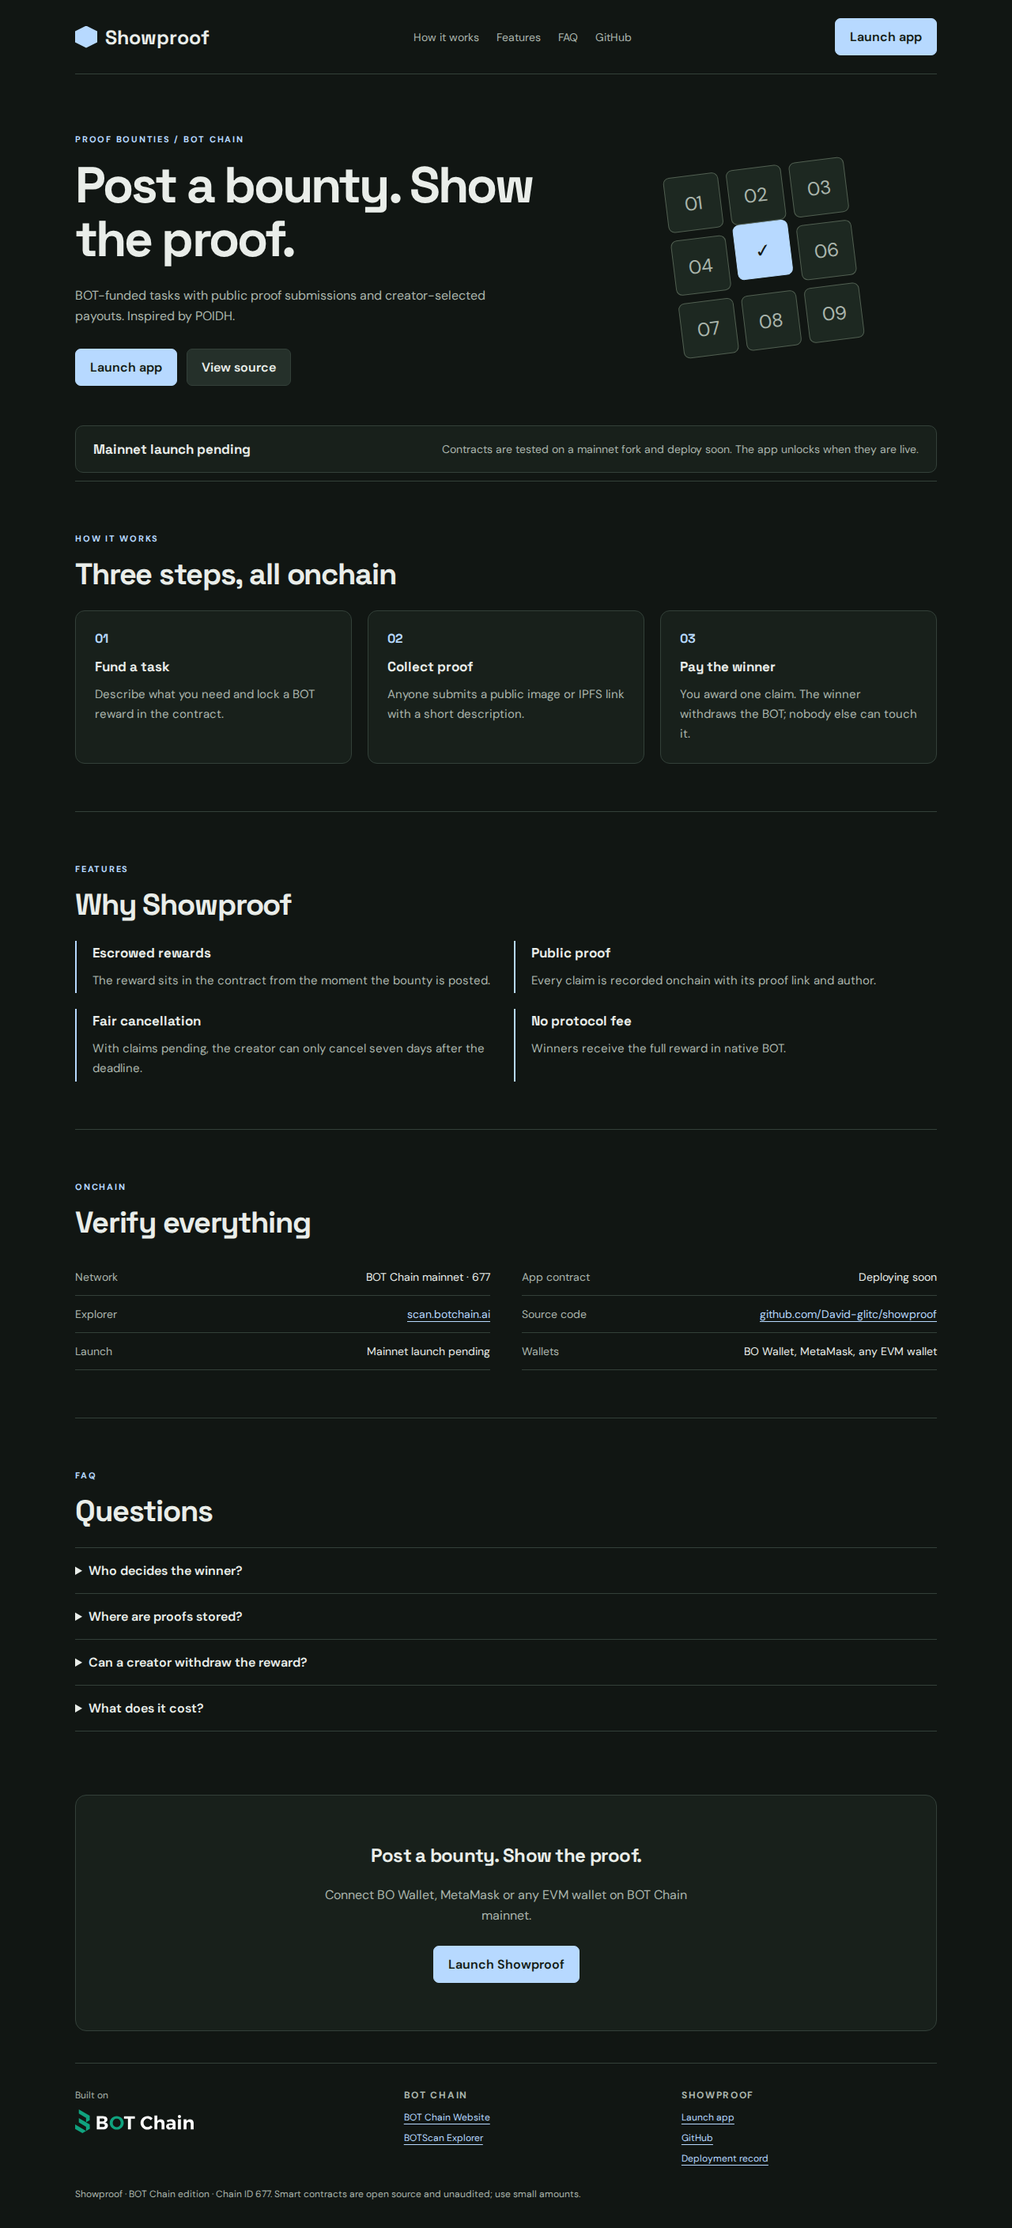
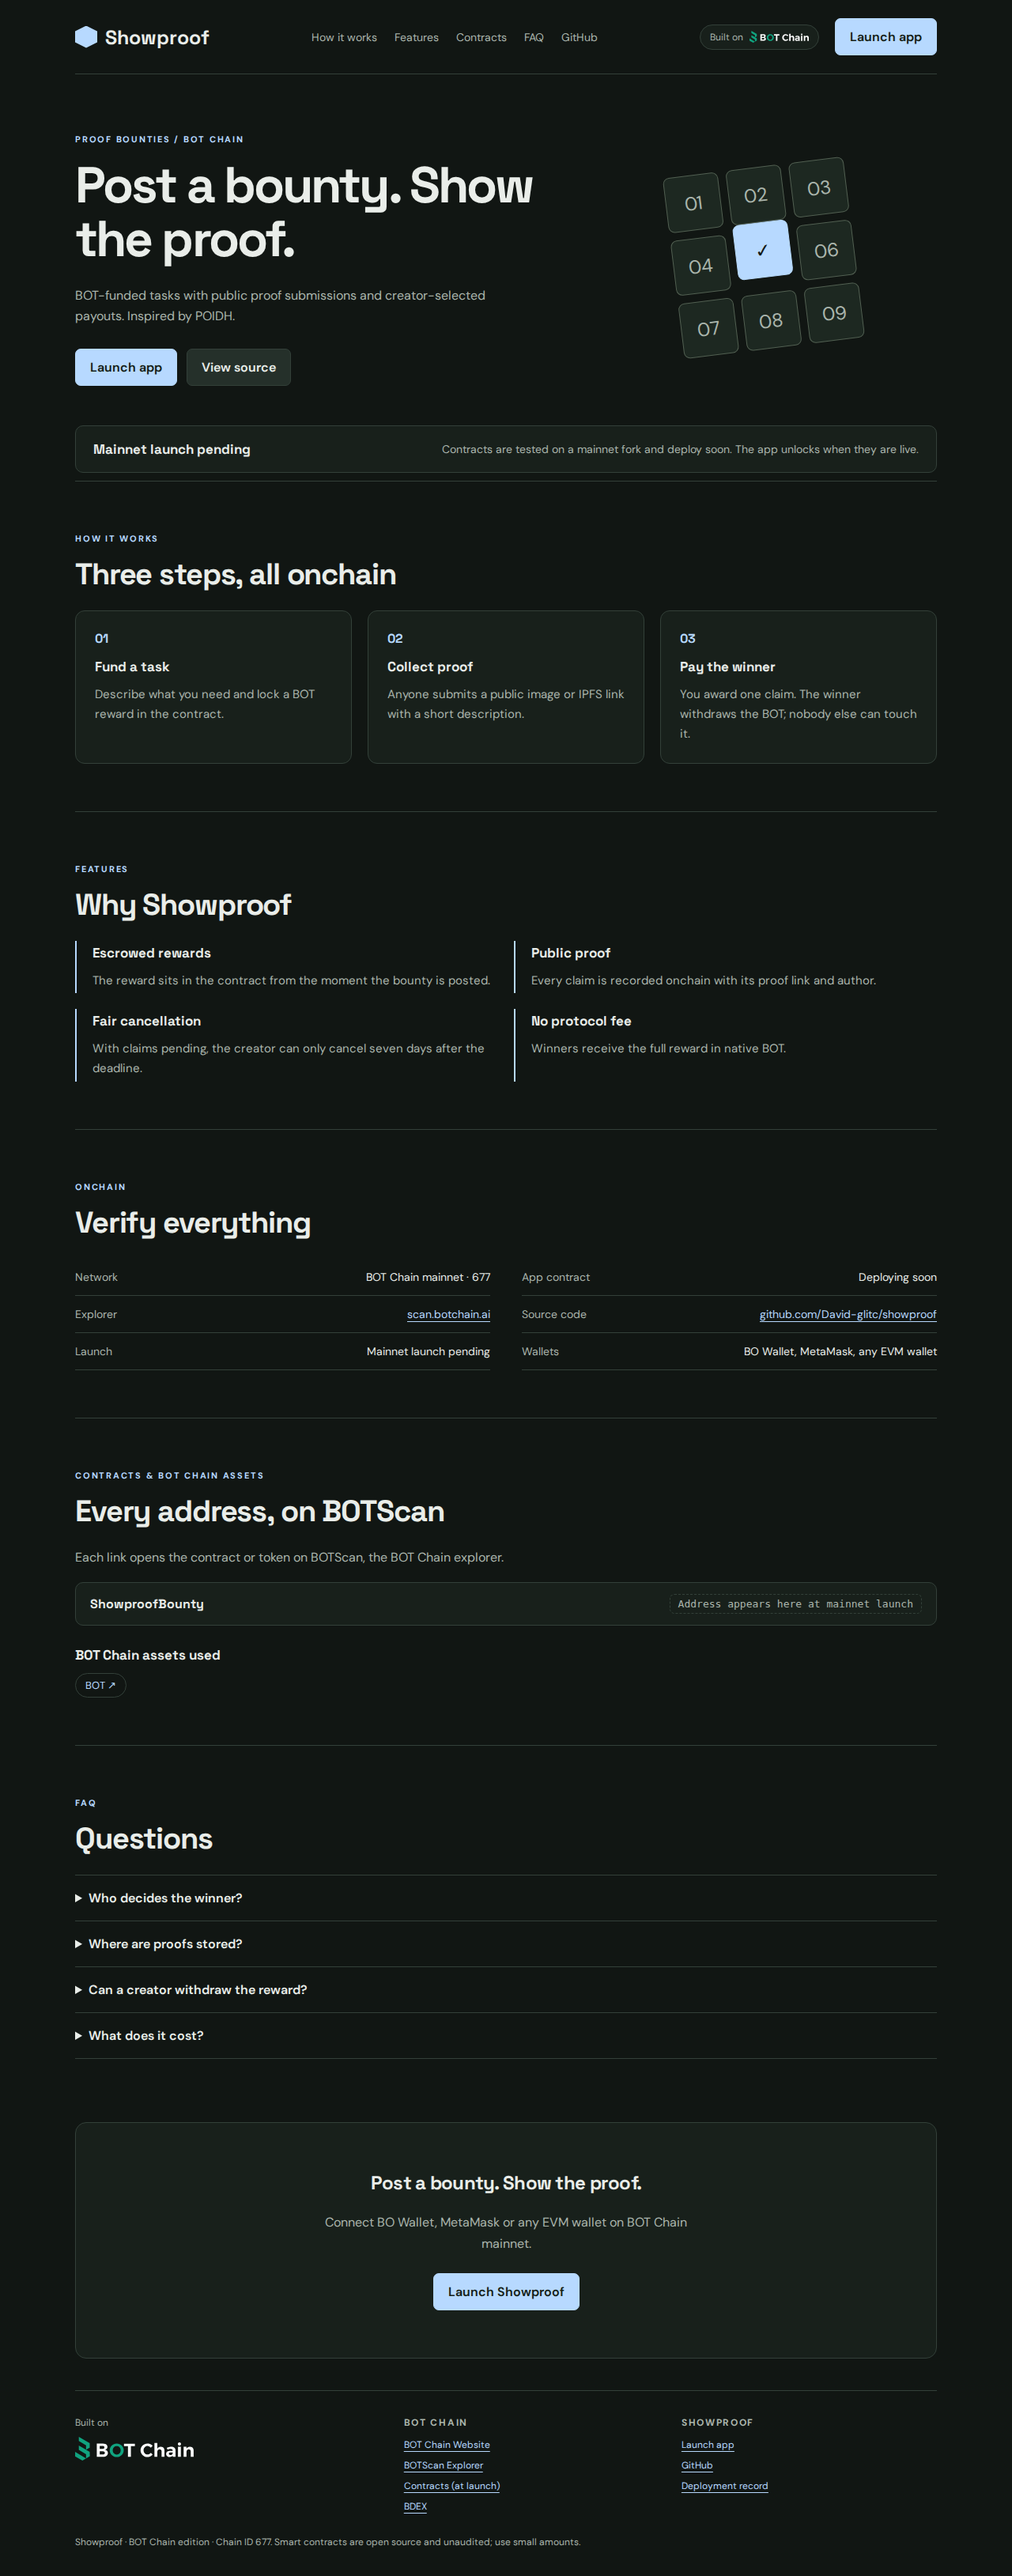
Move sites to Vercel; BOT Chain branding and linked contracts

diff --git a/web/landing.html b/web/landing.html
@@ -1,1 +1,1 @@
-<!doctype html><html lang="en"><head><meta charset="UTF-8"><meta name="viewport" content="width=device-width,initial-scale=1"><meta name="theme-color" content="#111613"><title>__NAME__ · BOT Chain</title><meta name="description" content="__DESCRIPTION__"><meta property="og:title" content="__NAME__ · BOT Chain"><meta property="og:description" content="__DESCRIPTION__"><meta property="og:type" content="website"><meta name="twitter:card" content="summary"><link rel="icon" href="/icon.svg" type="image/svg+xml"><link rel="stylesheet" href="/style.css"></head><body><a class="skip" href="#main">Skip to content</a><div class="shell"><header><a class="brand" href="/"><span class="mark" aria-hidden="true"></span>__NAME__</a><nav class="site-nav" aria-label="Page"><a href="#how">How it works</a><a href="#features">Features</a><a href="#faq">FAQ</a><a href="__REPO_URL__" target="_blank" rel="noopener noreferrer">GitHub</a></nav><div class="header-actions"><a class="button primary" href="/app/">Launch app</a></div></header><main id="main"><section class="hero"><div><span class="eyebrow">__EYEBROW__ / BOT CHAIN</span><h1>__LINE__</h1><p>__DESCRIPTION__</p><div class="cta-row"><a class="button primary" href="/app/">Launch app</a><a class="button" href="__REPO_URL__" target="_blank" rel="noopener noreferrer">View source</a></div></div><div class="hero-art" aria-hidden="true"><div class="art-grid"><span>01</span><span>02</span><span>03</span><span>04</span><span>__SYMBOL__</span><span>06</span><span>07</span><span>08</span><span>09</span></div></div></section>__LAUNCH__<section id="how" class="band"><span class="eyebrow">How it works</span><h2>Three steps, all onchain</h2><ol class="steps">__STEPS__</ol></section><section id="features" class="band"><span class="eyebrow">Features</span><h2>Why __NAME__</h2><div class="features">__FEATURES__</div></section><section id="onchain" class="band"><span class="eyebrow">Onchain</span><h2>Verify everything</h2><dl class="facts">__FACTS__</dl></section><section id="faq" class="band"><span class="eyebrow">FAQ</span><h2>Questions</h2><div class="faq">__FAQ__</div></section><section class="cta-band"><h2>__LINE__</h2><p>Connect BO Wallet, MetaMask or any EVM wallet on BOT Chain mainnet.</p><a class="button primary" href="/app/">Launch __NAME__</a></section></main>__FOOTER__</div></body></html>
+<!doctype html><html lang="en"><head><meta charset="UTF-8"><meta name="viewport" content="width=device-width,initial-scale=1"><meta name="theme-color" content="#111613"><title>__NAME__ · BOT Chain</title><meta name="description" content="__DESCRIPTION__"><meta property="og:title" content="__NAME__ · BOT Chain"><meta property="og:description" content="__DESCRIPTION__"><meta property="og:type" content="website"><meta name="twitter:card" content="summary"><link rel="icon" href="/icon.svg" type="image/svg+xml"><link rel="stylesheet" href="/style.css"></head><body><a class="skip" href="#main">Skip to content</a><div class="shell"><header><a class="brand" href="/"><span class="mark" aria-hidden="true"></span>__NAME__</a><nav class="site-nav" aria-label="Page"><a href="#how">How it works</a><a href="#features">Features</a><a href="#contracts">Contracts</a><a href="#faq">FAQ</a><a href="__REPO_URL__" target="_blank" rel="noopener noreferrer">GitHub</a></nav><div class="header-actions"><a class="chain-badge" href="https://www.botchain.ai/" target="_blank" rel="noopener noreferrer" aria-label="Built on BOT Chain"><span>Built on</span><img src="/botchain.svg" alt="BOT Chain" width="96" height="19"></a><a class="button primary" href="/app/">Launch app</a></div></header><main id="main"><section class="hero"><div><span class="eyebrow">__EYEBROW__ / BOT CHAIN</span><h1>__LINE__</h1><p>__DESCRIPTION__</p><div class="cta-row"><a class="button primary" href="/app/">Launch app</a><a class="button" href="__REPO_URL__" target="_blank" rel="noopener noreferrer">View source</a></div></div><div class="hero-art" aria-hidden="true"><div class="art-grid"><span>01</span><span>02</span><span>03</span><span>04</span><span>__SYMBOL__</span><span>06</span><span>07</span><span>08</span><span>09</span></div></div></section>__LAUNCH__<section id="how" class="band"><span class="eyebrow">How it works</span><h2>Three steps, all onchain</h2><ol class="steps">__STEPS__</ol></section><section id="features" class="band"><span class="eyebrow">Features</span><h2>Why __NAME__</h2><div class="features">__FEATURES__</div></section><section id="onchain" class="band"><span class="eyebrow">Onchain</span><h2>Verify everything</h2><dl class="facts">__FACTS__</dl></section><section id="contracts" class="band"><span class="eyebrow">Contracts &amp; BOT Chain assets</span><h2>Every address, on BOTScan</h2><p>Each link opens the contract or token on BOTScan, the BOT Chain explorer.</p><div class="contracts">__CONTRACTS__</div><h3 class="assets-title">BOT Chain assets used</h3><ul class="assets">__ASSETS__</ul></section><section id="faq" class="band"><span class="eyebrow">FAQ</span><h2>Questions</h2><div class="faq">__FAQ__</div></section><section class="cta-band"><h2>__LINE__</h2><p>Connect BO Wallet, MetaMask or any EVM wallet on BOT Chain mainnet.</p><a class="button primary" href="/app/">Launch __NAME__</a></section></main>__FOOTER__</div></body></html>

diff --git a/web/app.html b/web/app.html
@@ -1,1 +1,1 @@
-<!doctype html><html lang="en"><head><meta charset="UTF-8"><meta name="viewport" content="width=device-width,initial-scale=1"><meta name="theme-color" content="#111613"><title>__NAME__ App · BOT Chain</title><meta name="description" content="__DESCRIPTION__"><link rel="icon" href="/icon.svg" type="image/svg+xml"><link rel="stylesheet" href="/style.css"></head><body><a class="skip" href="#main">Skip to app</a><div class="shell"><header><a class="brand" href="/"><span class="mark" aria-hidden="true"></span>__NAME__</a><div class="header-actions"><span class="network">BOT Chain · 677</span><button id="add-chain" type="button">Add BOT Chain</button><button id="connect" type="button" class="primary">Connect wallet</button></div></header><main id="main"><section class="app-intro"><span class="eyebrow">__EYEBROW__ / BOT CHAIN MAINNET</span><h1>__NAME__ app</h1><p>__LINE__ <a href="/">How it works</a></p></section><div id="status" class="status" role="status" aria-live="polite">Checking deployment…</div><div id="workspace" class="layout"><aside><div id="controls" class="panel"></div><details class="rules"><summary>How this works</summary><div id="rules"></div></details><details><summary>Contract &amp; network</summary><div id="contract" class="record"></div></details></aside><section class="panel"><div class="section-head"><h2 id="list-title">Activity</h2><button id="refresh" type="button">Refresh</button></div><div id="records" aria-live="polite"><p class="empty">Loading onchain data…</p></div></section></div></main>__FOOTER__</div><dialog id="wallets" aria-labelledby="wallets-title"><form method="dialog"><h2 id="wallets-title">Choose a wallet</h2><p class="tiny">Any EVM wallet works on BOT Chain, including BO Wallet and MetaMask.</p><div id="wallet-list" class="wallet-list"></div><button value="cancel">Cancel</button></form></dialog><script type="module" src="/app.js"></script></body></html>
+<!doctype html><html lang="en"><head><meta charset="UTF-8"><meta name="viewport" content="width=device-width,initial-scale=1"><meta name="theme-color" content="#111613"><title>__NAME__ App · BOT Chain</title><meta name="description" content="__DESCRIPTION__"><link rel="icon" href="/icon.svg" type="image/svg+xml"><link rel="stylesheet" href="/style.css"></head><body><a class="skip" href="#main">Skip to app</a><div class="shell"><header><a class="brand" href="/"><span class="mark" aria-hidden="true"></span>__NAME__</a><div class="header-actions"><a class="chain-badge compact" href="https://www.botchain.ai/" target="_blank" rel="noopener noreferrer" aria-label="Built on BOT Chain"><span>Built on</span><img src="/botchain.svg" alt="BOT Chain" width="96" height="19"></a><button id="add-chain" type="button">Add BOT Chain</button><button id="connect" type="button" class="primary">Connect wallet</button></div></header><main id="main"><section class="app-intro"><span class="eyebrow">__EYEBROW__ / BOT CHAIN MAINNET</span><h1>__NAME__ app</h1><p>__LINE__ <a href="/">How it works</a></p></section><div id="status" class="status" role="status" aria-live="polite">Checking deployment…</div><div id="workspace" class="layout"><aside><div id="controls" class="panel"></div><details class="rules"><summary>How this works</summary><div id="rules"></div></details><div class="panel contracts-panel"><h2>Contracts &amp; assets</h2><div class="contracts">__CONTRACTS__</div><ul class="assets">__ASSETS__</ul><p class="tiny">BOT Chain mainnet · chain ID 677 · <a href="/deployment.json">deployment record</a></p></div></aside><section class="panel"><div class="section-head"><h2 id="list-title">Activity</h2><button id="refresh" type="button">Refresh</button></div><div id="records" aria-live="polite"><p class="empty">Loading onchain data…</p></div></section></div></main>__FOOTER__</div><dialog id="wallets" aria-labelledby="wallets-title"><form method="dialog"><h2 id="wallets-title">Choose a wallet</h2><p class="tiny">Any EVM wallet works on BOT Chain, including BO Wallet and MetaMask.</p><div id="wallet-list" class="wallet-list"></div><button value="cancel">Cancel</button></form></dialog><script type="module" src="/app.js"></script></body></html>

diff --git a/web/products/showproof.js b/web/products/showproof.js
@@ -1,4 +1,4 @@
-import {$,config,state,esc,fmt,link,short,button,field,area,form,details,amount,read,tx,mine,chainTime,start} from '../core.js';
+import {$,config,state,esc,fmt,link,short,button,field,area,form,details,amount,read,tx,mine,chainTime,asset,start} from '../core.js';
 function controls(){
  $('list-title').textContent='Bounties';
  $('controls').innerHTML='<h2>Create a bounty</h2>'+form('new-bounty',field('title','What needs doing?','','text','maxlength="120"')+area('description','Details and acceptance criteria')+field('reward','Reward (BOT)','0.01','text','inputmode="decimal"')+field('days','Submission window (days)','7','number','min="1" max="90"'),'Fund bounty',async f=>tx('ShowproofBounty','create',[f.title,f.description,BigInt(await chainTime()+Number(f.days)*86400)],amount(f.reward)))+'<p class="tiny">Funds stay in the contract until you award a claim or cancel under the bounty rules.</p>';
@@ -8,7 +8,7 @@ async function render(){
  const count=Number(await read('ShowproofBounty','bountyCount'));const nowMs=await chainTime()*1000;let html='';
  if(state.account){const credit=await read('ShowproofBounty','credit',[state.account]);if(credit>0n)html+=`<div class="item"><h3>${fmt(credit)} BOT ready to withdraw</h3>${button('Withdraw payout',()=>tx('ShowproofBounty','withdraw'),true)}</div>`;}
  for(let id=count-1;id>=Math.max(0,count-30);id--){const [creator,reward,deadline,closed,title,description]=await read('ShowproofBounty','bounties',[BigInt(id)]);
-  html+=`<article class="item"><div class="section-head"><h3>${esc(title)}</h3><span class="badge">${closed?'Closed':'Open'}</span></div><div class="amount">${fmt(reward)} BOT</div><p>${esc(description)}</p><div class="tiny">By ${link(creator)} · Submissions until ${new Date(Number(deadline)*1000).toLocaleString()}</div>`;
+  html+=`<article class="item"><div class="section-head"><h3>${esc(title)}</h3><span class="badge">${closed?'Closed':'Open'}</span></div><div class="amount">${fmt(reward)} ${asset('BOT')}</div><p>${esc(description)}</p><div class="tiny">By ${link(creator)} · Submissions until ${new Date(Number(deadline)*1000).toLocaleString()}</div>`;
   const total=Number(await read('ShowproofBounty','claimCount',[BigInt(id)]));
   for(let j=Math.max(0,total-20);j<total;j++){const c=await read('ShowproofBounty','getClaim',[BigInt(id),BigInt(j)]);let url=c.proofURI;if(url.startsWith('ipfs://'))url='https://ipfs.io/ipfs/'+url.slice(7);const safe=/^https?:\/\//.test(url);html+=`<details><summary>Proof #${j} · ${esc(short(c.creator))}</summary><p>${esc(c.description)}</p>${safe?`<a href="${esc(url)}" target="_blank" rel="noopener noreferrer">View proof ↗</a>`:'Unsupported proof URL'}${!closed&&mine(creator)?`<div class="actions">${button('Award this proof',()=>tx('ShowproofBounty','award',[BigInt(id),BigInt(j)]),true)}</div>`:''}</details>`;}
   if(!closed&&Number(deadline)*1000>nowMs&&!mine(creator))html+=details('Submit your proof',form(`proof-${id}`,field(`url-${id}`,'Public image or IPFS URL','','text','maxlength="500"')+area(`proof-note-${id}`,'Describe your proof'),'Submit claim',f=>tx('ShowproofBounty','submit',[BigInt(id),f[`url-${id}`],f[`proof-note-${id}`]])));

diff --git a/web/core.js b/web/core.js
@@ -72,6 +72,8 @@ export const tx=(name,fn,args=[],value=0n,addr=config.contracts[name])=>transact
 export async function approve(token,spender,n){await wallet();const allowed=await client.readContract({address:token,abi:tokenAbi,functionName:'allowance',args:[state.account,spender]});if(allowed<n){if(allowed>0n)await transact(tokenAbi,token,'approve',[spender,0n]);await transact(tokenAbi,token,'approve',[spender,n]);}}
 export async function approveNFT(token,id,spender){await wallet();if((await client.readContract({address:token,abi:tokenAbi,functionName:'getApproved',args:[id]})).toLowerCase()!==spender.toLowerCase())await transact(nftAbi,token,'approve',[spender,id]);}
 export const wrapForms=()=>details('Wrap or unwrap BOT',form('wrap',field('wrap-amount','BOT to wrap','0.01','text','inputmode="decimal"'),'Wrap BOT',async f=>transact(tokenAbi,config.infrastructure.WBOT,'deposit',[],amount(f['wrap-amount'])))+form('unwrap',field('unwrap-amount','WBOT to unwrap','0.01','text','inputmode="decimal"'),'Unwrap WBOT',async f=>transact(tokenAbi,config.infrastructure.WBOT,'withdraw',[amount(f['unwrap-amount'])])));
+/** A BOT Chain asset symbol, linked to its BOTScan token page (BOT links to BOT Chain). Unknown symbols stay plain text. */
+export const asset=(symbol,address)=>{const k=String(symbol).toUpperCase(),a=config.assetLinks?.[k];const href=a?.href||(address?`https://scan.botchain.ai/token/${address}`:null);return href?`<a class="asset" href="${esc(href)}" target="_blank" rel="noopener noreferrer" title="${esc(a?.name||symbol)} on BOT Chain">${esc(symbol)}</a>`:esc(symbol);};
 export const mine=a=>!!state.account&&a?.toLowerCase()===state.account.toLowerCase();
 
 let product;
@@ -95,6 +97,5 @@ export function start(p){
  document.addEventListener('submit',e=>{if(!e.target.dataset.form)return;e.preventDefault();const f=e.target;run(()=>actions.get(f.dataset.form)(Object.fromEntries(new FormData(f))));});
  $('connect').onclick=()=>run(connect);$('add-chain').onclick=()=>run(addChain);$('refresh').onclick=()=>run(state.verified?refresh:boot);
  product.controls();
- $('contract').innerHTML=`<p>BOT Chain mainnet · Chain ID 677</p><p>${config.contracts[config.contract]?link(config.contracts[config.contract],'View app contract on BOTScan'):'Contract deployment pending'}</p><p><a href="/deployment.json">Public deployment record</a></p>`;
  boot();
 }

diff --git a/web/style.css b/web/style.css
@@ -50,3 +50,21 @@ dialog form>button{width:100%}
 .weights legend{font-size:12px;font-weight:600;padding:0 6px}
 .tiny.error{color:#e2a49c}
 .holdings{margin:6px 0 10px}
+
+.chain-badge{display:inline-flex;align-items:center;gap:8px;text-decoration:none;color:var(--muted);font-size:12px;border:1px solid var(--line);border-radius:999px;padding:7px 12px;background:#18201b}
+.chain-badge:hover{border-color:#10A37F}
+.chain-badge img{height:15px;width:auto}
+.contracts{display:grid;gap:10px;margin:18px 0}
+.contract{display:flex;justify-content:space-between;align-items:center;gap:16px;flex-wrap:wrap;border:1px solid var(--line);border-radius:10px;padding:14px 18px;background:#18201b}
+.contract strong{font-family:'Space Grotesk',sans-serif}
+.contract a,.contract .pending{font-family:ui-monospace,SFMono-Regular,Menlo,monospace;font-size:13px;overflow-wrap:anywhere}
+.contract .pending{color:var(--muted);border:1px dashed var(--line);border-radius:6px;padding:4px 10px}
+.assets-title{margin-top:26px}
+.assets{list-style:none;padding:0;margin:10px 0 0;display:flex;flex-wrap:wrap;gap:8px}
+.assets a{display:inline-flex;gap:6px;align-items:center;border:1px solid var(--line);border-radius:999px;padding:6px 12px;font-size:13px;text-decoration:none}
+.assets a:hover{border-color:var(--accent)}
+.contracts-panel h2{font-size:18px;margin-bottom:6px}
+.contracts-panel .contract{padding:10px 12px}
+a.asset{text-decoration-thickness:1px}
+@media(max-width:760px){.chain-badge span{display:none}.chain-badge.compact{display:none}}
+@media(max-width:480px){header{gap:10px}.header-actions{gap:6px}.chain-badge{padding:6px 8px}.chain-badge img{height:12px}.header-actions a.button{padding:9px 11px;font-size:13px}.brand{font-size:19px;gap:8px}.mark{width:22px;height:22px}}

diff --git a/README.md b/README.md
@@ -4,7 +4,7 @@
 
 **Status:** contracts are tested on a BOT Chain mainnet fork; the mainnet deployment is pending.
 
-- Website and app: https://showproof-botchain.davidopuene8.workers.dev (app at [`/app/`](https://showproof-botchain.davidopuene8.workers.dev/app/))
+- Website and app: https://showproofbot.vercel.app (app at [`/app/`](https://showproofbot.vercel.app/app/))
 - Network: BOT Chain mainnet, chain ID 677 · [BOT Chain](https://www.botchain.ai/) · [BOTScan](https://scan.botchain.ai/)
 
 ![Showproof landing page](docs/showproof-landing-1280.png)
@@ -61,7 +61,7 @@ node scripts/deploy.mjs && node scripts/fork-check.mjs
 
 ### Deploy
 
-`scripts/deploy.mjs` reads the deployer key from `BOT_SIGNER_FILE` (default `~/.config/botchain-wave1/deployer.env`, never committed), refuses to broadcast on mainnet without `BOT_MAX_GAS_BOT`, and journals every transaction to `deployments/mainnet.json` so it can resume. `python3 scripts/publish.py` publishes the site with a one-hour, Workers-only Cloudflare token and revokes it afterwards.
+`scripts/deploy.mjs` reads the deployer key from `BOT_SIGNER_FILE` (default `~/.config/botchain-wave1/deployer.env`, never committed), refuses to broadcast on mainnet without `BOT_MAX_GAS_BOT`, and journals every transaction to `deployments/mainnet.json` so it can resume. `npm run publish` deploys the built site to Vercel as a static production deployment.
 
 ## License
 
